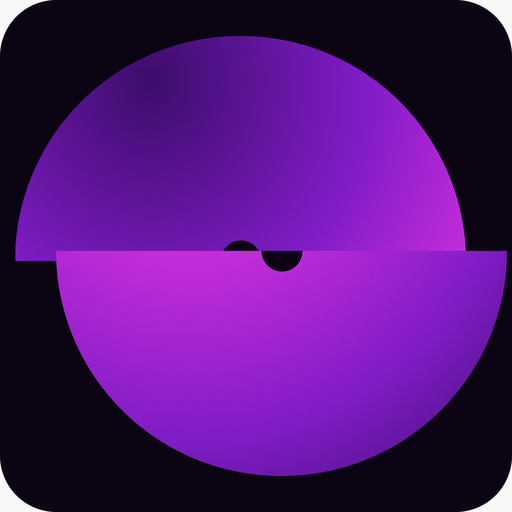
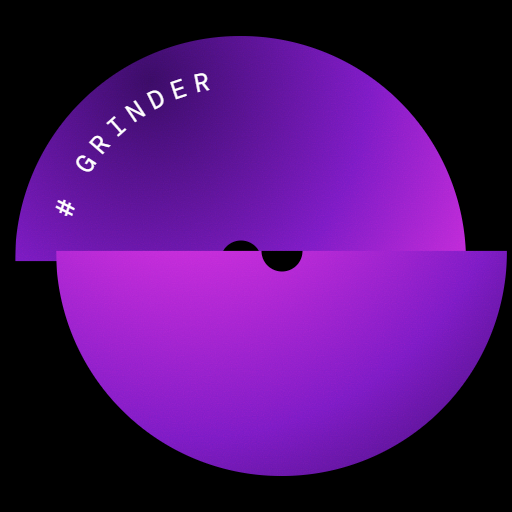
feat(brand): the "# GRINDER" disc replaces the plain one, everywhere it appears
Founder's choice. Same intended cut/offset disc, now carrying the wordmark curved
around the upper half, so the avatar says who it is at any size.

  icon.png  <- grinder-H2-black-512.png   the bot avatar AND the server icon
  logo.png  <- grinder-H2-black-1024.png  embed picture (currently unused - /help
                                          moved to the Remix banner earlier today)

icon.png is sourced at 512, which is exactly the size we ship, so it is a straight
copy with NO resampling and no softening of the curved text. logo.png comes from
the 1024 rather than the 2048: 640 is already more than Discord renders in an
embed, and downscaling from 2048 reads 4 MB for an identical result.

TWO THINGS FOUND WHILE DOING IT.

1. Pillow was NEVER in requirements.txt, so the script whose docstring says "run
   this again whenever the artwork changes" could not start on any machine that had
   not happened to install it. Recorded now, with a comment saying it is only
   needed for this script.

2. Re-running the script also re-encoded remix-banner.jpg - 104 KB committed, 152 KB
   out of the newer Pillow, from unchanged source art. The bot uploads on a
   fingerprint change, so that would have re-uploaded the profile banner and touched
   the #read-this-first post the founder had just asked to leave alone. Restored
   from git, and the script now carries a caution at that line so the next person
   checks git status rather than discovering it in Discord.
[…]

diff --git a/services/discord-bot/scripts/prepare_assets.py b/services/discord-bot/scripts/prepare_assets.py
@@ -31,11 +31,15 @@ IMAGES: tuple[tuple[str, str, tuple[int, int]], ...] = (
     # FOUNDER'S CHOICE (2026-08-11): the split-disc "Avatar biggest size.png", not the "G" mark.
     # The cut/offset disc is the INTENDED design, confirmed by the founder — see the module
     # docstring. `Icon.png` (the G) stays in the source folder if it is ever wanted back.
-    ("Avatar biggest size.png", "icon.png", (512, 512)),
-    # The GRINDER wordmark disc: the picture on the welcome post and /help. Discord renders an
-    # embed image about 400px wide, so 640 is already more than it can show — and the grain in the
-    # source art compresses badly, so every extra pixel costs real bytes for no visible gain.
-    ("Main logo.png", "logo.png", (640, 640)),
+    # FOUNDER'S CHOICE (2026-08-12): the "# GRINDER" disc replaces the plain split disc
+    # everywhere. Same intended cut/offset artwork, now carrying the wordmark, so the avatar
+    # says who it is at any size. Sourced at 512 exactly — the size we output — so this is a
+    # straight copy with NO resampling and no softening of the curved text.
+    ("grinder-H2-black-512.png", "icon.png", (512, 512)),
+    # The same disc, larger, for anywhere an embed shows a picture. Sourced from the 1024 rather
+    # than the 2048: 640 is already more than Discord renders in an embed, and downscaling from
+    # 2048 costs 4 MB of read for an identical result.
+    ("grinder-H2-black-1024.png", "logo.png", (640, 640)),
     # The glow banner. 960x540 is Discord's server-banner size, and the source is already 16:9,
     # so this is a clean downscale with no cropping. Cannot be APPLIED until the server reaches
     # boost level 2 — committed now so it is ready the moment it can be used.
@@ -47,6 +51,12 @@ IMAGES: tuple[tuple[str, str, tuple[int, int]], ...] = (
 # IMAGES because it saves as JPEG: the art is a grainy gradient, which PNG cannot compress (1426 KB
 # vs 102 KB for a visually identical q94 JPEG). Source is the founder's 4x export; 1360x480 is 2x
 # what Discord renders, so it stays sharp on a high-DPI screen.
+# CAUTION (2026-08-12): re-encoding this produces a DIFFERENT FILE even when the source art has
+# not changed - a newer Pillow encodes the same JPEG at 152 KB where the shipped one is 104 KB.
+# The bot uploads on a fingerprint change, so a pointless re-encode re-uploads the profile banner
+# and touches the #read-this-first post, which the founder explicitly asked to leave alone.
+# If you run this script for some OTHER asset, check `git status` afterwards and restore this file
+# unless the artwork itself actually changed.
 REMIX_BANNER_SRC = "grinder-banner-680x240@4x.png"
 REMIX_BANNER_OUT = "remix-banner.jpg"
 REMIX_BANNER_SIZE = (1360, 480)
